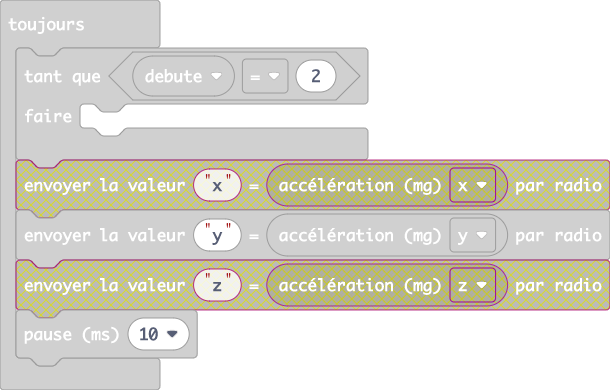
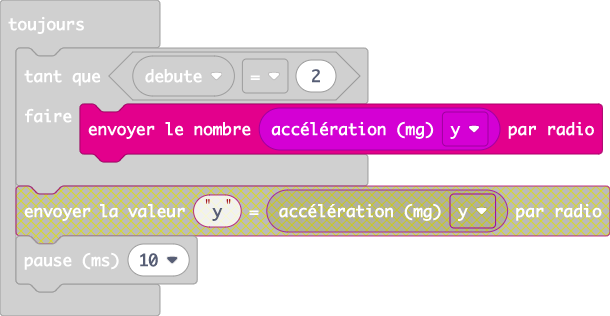
Mise à jour main.blocks, main.ts

diff --git a/main.ts b/main.ts
@@ -14,7 +14,7 @@ debute = 0
 basic.showIcon(IconNames.No)
 basic.forever(function () {
     while (debute == 2) {
-        radio.sendValue("y", input.acceleration(Dimension.Y))
+        radio.sendNumber(input.acceleration(Dimension.Y))
     }
     basic.pause(10)
 })
